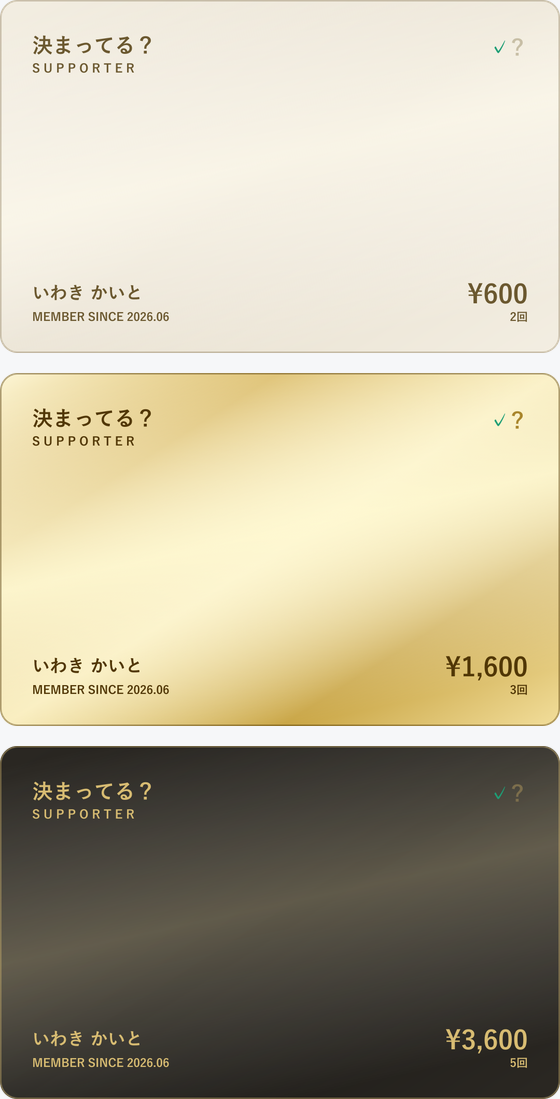
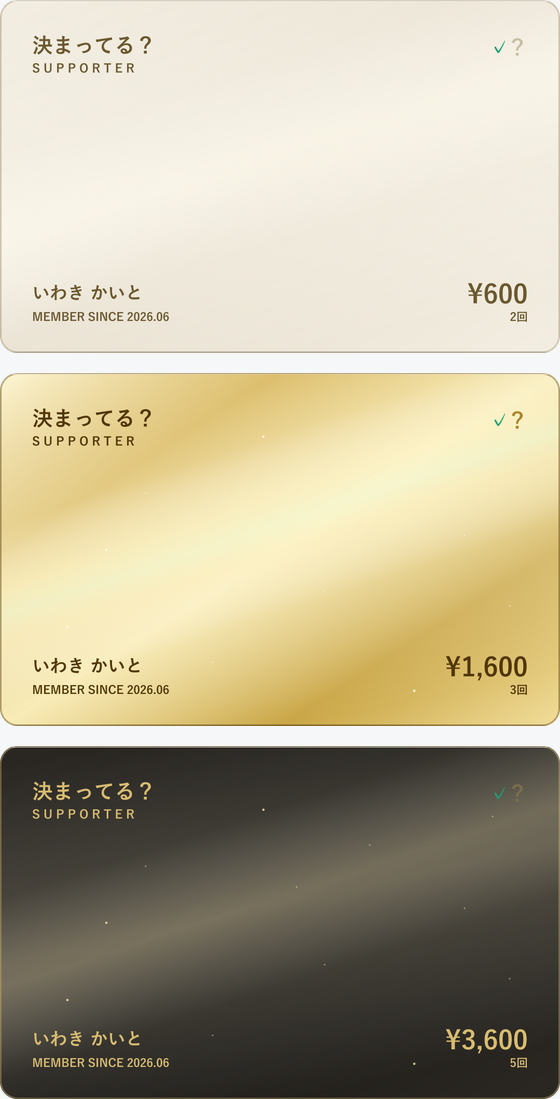
カードの質感を上げる（v0.22.3）
もらった仕様のうち、この作りに合うものを取り入れた。

・向きに連れて動く光を1本足した。端末のジャイロは使わない——
  指で回すぶんだけで「傾けると光が動く」は出せる。正面では真ん中、
  右へ回せば光は左へ滑り、上へなぞれば上へ寄って帯の角度も振れる。
・ゴールドの光は、真ん中だけわずかに緑へ転ぶようにした。虹色を全部
  出すのではなく、本物の金箔が浅い角度で見せる緑だけを拾っている。
  そのほうが、プラスチックではなく金に見える。
・箔の粒を12個。ゴールドと黒だけ。下から昇って、ちらついて消える。
  生成りの紙には撒かない（紙に金粉は嘘になる）。居場所は決め打ち——
  毎回ばらばらに置くと、指で回すたびに粒が飛び移ってしまう。
・縁に厚みを入れた。上の縁に明かり、下の縁に影の細い線を1本ずつ。

光を2本重ねると真ん中が白く飛んで金に見えなくなったので、
もとからある流れる帯を弱めた（.9 → .45）。3段とも描いて確かめ、
字の乗るところの明暗比は最も低いところで 5.18、ゴールドで 6.35〜8.86。

書き出す画像と、見本を作る道具にも同じものを入れた。

diff --git a/app/src/App.jsx b/app/src/App.jsx
@@ -129,16 +129,31 @@ const repeatAfter = (y, m, d, every, spanMonths, dows) => {
 // 明と暗が何度か折り返すところなので、明→暗→明→暗→明 と振っている。
 // 暗い帯は斜めに走って字のある四隅を外れる（実際に描いて拾った地の色は
 // 名前のうしろ rgb(249,238,196)、金額のうしろ rgb(220,192,110)）。
+// glint は「カードの向きに連れて動く光」の帯。sheen（ひとりでに流れる帯）とは別。
+// 2本を強いまま重ねると、真ん中が白く飛んで金に見えなくなったので、
+// 流れるほうを弱めてある（.9 → .45）。
+// ゴールドの glint だけ真ん中がわずかに緑へ振れる。本物の金箔は浅い角度で
+// 緑に転ぶので、虹色を全部出すより、そこだけ拾ったほうが金に見える。
+// fleck は箔の粒。生成りの紙には撒かない（紙に金粉は嘘になる）。
 const CARD_TIERS = [
   { key: 'normal', min: 0, name: 'ノーマル',
     paper: ['#F3EEE2', '#E7DFCE', '#F3EEE2'], foil: '#6B582F', mark: '#C8BFA6',
-    sheen: 'rgba(255,252,240,.72)', edge: 'rgba(107,88,47,.3)' },
+    sheen: 'rgba(255,252,240,.5)', edge: 'rgba(107,88,47,.3)', fleck: null,
+    glint: 'rgba(255,255,255,0) 32%, rgba(255,252,238,.42) 50%, rgba(255,255,255,0) 68%' },
   { key: 'gold', min: 1000, name: 'ゴールド',
     paper: ['#FDF6D6', '#D9B85F', '#F7E8AC', '#C9A544', '#F2DE9B'], foil: '#513706', mark: '#A9862C',
-    sheen: 'rgba(255,250,214,.9)', edge: 'rgba(81,55,6,.44)' },
+    sheen: 'rgba(255,250,214,.45)', edge: 'rgba(81,55,6,.44)', fleck: '#FFFDF0',
+    glint: 'rgba(255,255,255,0) 30%, rgba(255,246,200,.5) 44%, rgba(237,251,217,.6) 50%, rgba(255,239,192,.5) 56%, rgba(255,255,255,0) 70%' },
   { key: 'black', min: 3000, name: 'ブラック',
     paper: ['#2B2823', '#1B1915', '#2B2823'], foil: '#D8BC72', mark: '#7C6E4C',
-    sheen: 'rgba(255,240,196,.30)', edge: 'rgba(216,188,114,.38)' },
+    sheen: 'rgba(255,240,196,.24)', edge: 'rgba(216,188,114,.38)', fleck: '#F0DFA8',
+    glint: 'rgba(255,255,255,0) 32%, rgba(255,240,196,.22) 50%, rgba(255,255,255,0) 68%' },
+];
+// 箔の粒の居場所（％）と、光りはじめるまでの間（秒）。
+// 毎回ばらばらに置くと、指で回すたびに粒が飛び移ってしまうので、決め打ちにする。
+const FLECKS = [
+  [12,72,0], [26,34,1.4], [38,82,2.9], [47,18,0.6], [58,62,3.7], [66,28,1.9],
+  [74,90,4.6], [83,46,2.3], [91,66,5.4], [19,50,3.1], [53,40,6.2], [88,20,4.1],
 ];
 // 色の並びを、等間隔に置いたグラデーションにする
 const paperStops = (paper) =>
@@ -1339,6 +1354,23 @@ export default class App extends React.Component {
       v.foilStyle = { position:'absolute', top:'-60%', left:0, width:'42%', height:'220%',
         background:`linear-gradient(90deg, rgba(255,255,255,0) 0%, ${tier.sheen} 50%, rgba(255,255,255,0) 100%)`,
         animation:'foilSweep 4.6s linear infinite', pointerEvents:'none', zIndex:0 };
+      // カードの向きに連れて動く光。端末のジャイロは使わない——指で回すぶんだけで、
+      // 「傾けると光が動く」は出せる。正面では真ん中、回すと光が逆へ滑る。
+      {
+        const gx = Math.sin((ang * Math.PI) / 180);          // 正面 0 → 真横 ±1
+        const gy = Math.sin((tilt * Math.PI) / 180) * 3;     // 傾きは浅いので効きを強める
+        v.glintStyle = { position:'absolute', inset:0, pointerEvents:'none', zIndex:0,
+          background:`linear-gradient(${112 - tilt * 2}deg, ${tier.glint})`,
+          backgroundSize:'250% 250%',
+          backgroundPosition:`${(50 - gx * 42).toFixed(1)}% ${(50 - gy * 42).toFixed(1)}%` };
+      }
+      // 箔の粒。下から昇って、ちらついて消える。ゴールドと黒だけ
+      v.cardFlecks = tier.fleck ? FLECKS.map(([x,y,d],i)=>({
+        key:i,
+        style:{ position:'absolute', left:x+'%', top:y+'%',
+          width:i%3===0?3:2, height:i%3===0?3:2, borderRadius:'50%',
+          background:tier.fleck, opacity:0, pointerEvents:'none', zIndex:0,
+          animation:`fleck ${6+(i%4)}s ease-in-out ${d}s infinite` } })) : [];
       const stamped = { color:foil,
         textShadow: tier.key==='black' ? '0 1px 0 rgba(0,0,0,.5)' : '0 1px 0 rgba(255,255,255,.6)' };
       v.foilTextStyle = { ...stamped, fontSize:17, fontWeight:800, letterSpacing:'.02em' };
@@ -2644,7 +2676,7 @@ export default class App extends React.Component {
         total: '¥' + total.toLocaleString('ja-JP'),
         times: sup.length + '回',
         paper: tier.paper, foil: tier.foil, mark: tier.mark,
-        sheen: tier.sheen, edge: tier.edge,
+        sheen: tier.sheen, edge: tier.edge, tier: tier.key, fleck: tier.fleck,
       });
       const msg = await shareCanvas(canvas, 'kimatteru-supporter.png');
       if (msg) {

diff --git a/app/src/sharecard.js b/app/src/sharecard.js
@@ -268,7 +268,7 @@ export function drawFreeCard({ monthLabel, weekdays, cells }) {
  * 画面のカードと同じ見立て（生成りの紙に真鍮の箔）で、キャンバスに直接描く。
  * 通し番号と人数は入れない——全員を数える場所が無いので、書けば嘘になる。
  */
-export function drawSupporterCard({ owner, since, total, times, paper, foil, mark, sheen, edge }) {
+export function drawSupporterCard({ owner, since, total, times, paper, foil, mark, sheen, edge, tier, fleck }) {
   const W = 1080;
   const H = Math.round(W / 1.586);
   const c = document.createElement('canvas');
@@ -288,6 +288,21 @@ export function drawSupporterCard({ owner, since, total, times, paper, foil, mar
   ctx.fillStyle = g;
   ctx.fillRect(0, 0, W, H);
 
+  // 向きに連れて動く光。画面では指で回すと滑るが、静止画では正面のとき——
+  // つまり真ん中に一本置く。ゴールドだけ、真ん中がわずかに緑へ振れる。
+  const glint = ctx.createLinearGradient(W * 0.1, 0, W * 0.62, H);
+  glint.addColorStop(0.3, 'rgba(255,255,255,0)');
+  if (tier === 'gold') {
+    glint.addColorStop(0.44, 'rgba(255,246,200,.5)');
+    glint.addColorStop(0.5, 'rgba(237,251,217,.6)');
+    glint.addColorStop(0.56, 'rgba(255,239,192,.5)');
+  } else {
+    glint.addColorStop(0.5, tier === 'black' ? 'rgba(255,240,196,.22)' : 'rgba(255,252,238,.42)');
+  }
+  glint.addColorStop(0.7, 'rgba(255,255,255,0)');
+  ctx.fillStyle = glint;
+  ctx.fillRect(0, 0, W, H);
+
   // 箔の光。画面では流れているが、静止画では一本通しておく
   const sheen2 = ctx.createLinearGradient(W * 0.18, 0, W * 0.52, H);
   sheen2.addColorStop(0, 'rgba(255,255,255,0)');
@@ -296,9 +311,28 @@ export function drawSupporterCard({ owner, since, total, times, paper, foil, mar
   ctx.fillStyle = sheen2;
   ctx.fillRect(0, 0, W, H);
 
+  // 箔の粒。画面と同じ居場所に置く（画面では昇って消えるが、静止画では止まった一瞬）
+  if (fleck) {
+    const FL = [[12,72],[26,34],[38,82],[47,18],[58,62],[66,28],[74,90],[83,46],[91,66],[19,50],[53,40],[88,20]];
+    ctx.fillStyle = fleck;
+    FL.forEach(([x, y], i) => {
+      ctx.globalAlpha = i % 3 === 0 ? 0.85 : 0.5;
+      ctx.beginPath();
+      ctx.arc((x / 100) * W, (y / 100) * H, i % 3 === 0 ? 2.3 : 1.6, 0, Math.PI * 2);
+      ctx.fill();
+    });
+    ctx.globalAlpha = 1;
+  }
+
   ctx.strokeStyle = edge || 'rgba(107,88,47,.32)';
   ctx.lineWidth = 3;
   ctx.strokeRect(1.5, 1.5, W - 3, H - 3);
+  // 厚み。上の縁に明かり、下の縁に影
+  ctx.strokeStyle = 'rgba(255,255,255,.5)';
+  ctx.lineWidth = 2;
+  ctx.beginPath(); ctx.moveTo(24, 2); ctx.lineTo(W - 24, 2); ctx.stroke();
+  ctx.strokeStyle = 'rgba(0,0,0,.14)';
+  ctx.beginPath(); ctx.moveTo(24, H - 2); ctx.lineTo(W - 24, H - 2); ctx.stroke();
 
   const PAD = 62;
   ctx.fillStyle = FOIL;

diff --git a/app/src/notices.js b/app/src/notices.js
@@ -9,9 +9,9 @@ export const KIND_INFO = 'info';
 // version はそのお知らせを出し始めた版。初回起動の人には出さない。
 export const RELEASE_NOTES = [
   {
-    version: '0.22.2',
+    version: '0.22.3',
     title: 'サポーターカードに段ができました',
-    body: '応援してくださった合計に応じて、カードの紙と箔が変わります。ノーマル（生成りの紙に真鍮）、¥1,000 からゴールド、¥3,000 からブラックの3段です。カードの下に、次の段まであといくらかを出しています。段が上がっても機能は増えません。見た目だけです。カードは指でなぞると、なぞった分だけその場で回ります。途中で手を離せば近いほうの面に落ち着き、勢いよく払えば向こうまで回ります。押して裏返すこともできます。上下になぞったときは裏返りませんが、指について少しだけ寝ます。',
+    body: '応援してくださった合計に応じて、カードの紙と箔が変わります。ノーマル（生成りの紙に真鍮）、¥1,000 からゴールド、¥3,000 からブラックの3段です。カードの下に、次の段まであといくらかを出しています。段が上がっても機能は増えません。見た目だけです。カードは指でなぞると、なぞった分だけその場で回ります。途中で手を離せば近いほうの面に落ち着き、勢いよく払えば向こうまで回ります。押して裏返すこともできます。上下になぞったときは裏返りませんが、指について少しだけ寝ます。カードの向きに連れて光の帯が滑るようにし、ゴールドと黒には箔の粒を撒きました。縁に厚みも入れています。',
   },
   {
     version: '0.20.0',

diff --git a/app/src/styles.css b/app/src/styles.css
@@ -91,6 +91,15 @@ input { font-family: inherit; }
   0%   { transform: translateX(-120%) rotate(18deg); }
   100% { transform: translateX(220%) rotate(18deg); }
 }
+/* 箔の粒。下から昇って、ちらついて消える。
+   金ぴかにしないための決めごと：小さく、少なく、遅く。
+   点滅ではなく「現れて、昇って、消える」——舞っている埃に光が当たる感じ。 */
+@keyframes fleck {
+  0%   { opacity: 0; transform: translateY(6px) scale(.5); }
+  22%  { opacity: .85; }
+  62%  { opacity: .5; }
+  100% { opacity: 0; transform: translateY(-38px) scale(1); }
+}
 /* 裏返し。奥行きを持たせて、紙を1枚めくる速さで */
 @keyframes cardIn {
   from { opacity: 0; transform: translateY(18px) scale(.97); }

diff --git a/app/src/view.jsx b/app/src/view.jsx
@@ -1321,6 +1321,8 @@ export function renderApp(v) {
                 {/* 表 */}
                 <div style={s(v.cardFaceStyle)}>
                   <div style={s(v.foilStyle)} />
+                  <div style={s(v.glintStyle)} />
+                  {(v.cardFlecks || []).map((f) => <div key={f.key} style={s(f.style)} />)}
                   <div style={s('position:relative;z-index:1;display:flex;flex-direction:column;height:100%;justify-content:space-between')}>
                     <div style={s('display:flex;align-items:flex-start;justify-content:space-between')}>
                       <span style={s('display:flex;flex-direction:column;gap:3px')}>

diff --git a/app/src/cardflip.js b/app/src/cardflip.js
@@ -84,5 +84,6 @@ export const cardShadow = (deg, back = false) => {
   const y = Math.round(14 - 5 * lift);
   const blur = Math.round(34 + 16 * lift);
   const a = (0.18 + 0.1 * lift).toFixed(3);
-  return `${x}px ${y}px ${blur}px rgba(38,37,31,${a}), inset 0 1px 0 rgba(255,255,255,.55)`;
+  // 内側の細い線2本が、カードの厚みになる。上に明かり、下に影。
+  return `${x}px ${y}px ${blur}px rgba(38,37,31,${a}), inset 0 1px 0 rgba(255,255,255,.5), inset 0 -1px 0 rgba(0,0,0,.14)`;
 };
